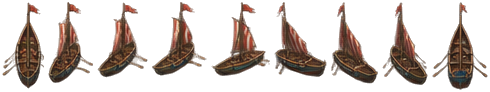
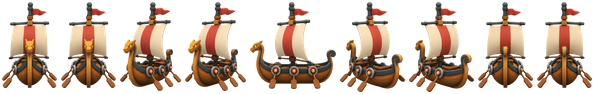
Toy-style Sloop and Longboat from 5-view sets; tools/cut-ship-views.py; fix creature-art test for flying keys
Claude-Session: https://claude.ai/code/session_01FCp3PwgtusK1H34abZ7FvQ

diff --git a/tools/cut-ship-views.py b/tools/cut-ship-views.py
@@ -1,0 +1,57 @@
+"""Cut a 5-view ship image (bow, bow-quarter, side with bow LEFT,
+stern-quarter, stern; transparent background) into a 9-frame atlas for
+engine/shipSprites.mjs, and patch that hull's frame table in place.
+
+  python3 tools/cut-ship-views.py <hull> <image.png>
+"""
+import sys, re, json
+from PIL import Image
+import numpy as np
+from scipy import ndimage
+
+hull, path = sys.argv[1], sys.argv[2]
+src = np.array(Image.open(path).convert('RGBA'))
+r, g, b, A = [src[..., i].astype(int) for i in range(4)]
+# Keying fringe: saturated red/yellow specks outside the solid body.
+core = ndimage.binary_erosion(A > 240, iterations=2)
+fringe = (~core) & (A < 250) & (((r > 170) & (g < 80) & (b < 80)) | ((r > 200) & (g > 190) & (b < 70)))
+src[..., 3] = np.where(fringe | (A < 24), 0, A)
+m = src[..., 3] > 128
+l, k = ndimage.label(ndimage.binary_dilation(m, iterations=8))
+sz = ndimage.sum(m, l, range(1, k + 1))
+objs = sorted([i + 1 for i in range(k) if sz[i] > 0.2 * sz.max()], key=lambda i: ndimage.find_objects(l)[i - 1][1].start)
+assert len(objs) == 5, f'expected 5 views, found {len(objs)}'
+sl = ndimage.find_objects(l)
+views = []
+for i in objs:
+    ys, xs = sl[i - 1]
+    a = src[ys, xs].copy()
+    al = np.where(l[ys, xs] == i, a[..., 3], 0)
+    kk, kn = ndimage.label(al > 0)
+    if kn > 1:
+        s2 = ndimage.sum(al > 0, kk, range(1, kn + 1))
+        al[~np.isin(kk, [j + 1 for j in range(kn) if s2[j] >= 0.02 * s2.max()])] = 0
+    a[..., 3] = al
+    yy, xx = np.nonzero(al > 20)
+    views.append(a[yy.min():yy.max() + 1, xx.min():xx.max() + 1])
+S = 90 / max(v.shape[0] for v in views)
+small = [np.array(Image.fromarray(v).resize((max(1, round(v.shape[1] * S)), max(1, round(v.shape[0] * S))), Image.LANCZOS)) for v in views]
+order = [0, 0, 1, 1, 2, 3, 3, 4, 4]  # 9 headings S -> W -> N, 22.5 deg apart
+pad = 2
+frames = [small[i] for i in order]
+W = sum(f.shape[1] + pad * 2 for f in frames); H = max(f.shape[0] for f in frames) + pad * 2
+atlas = np.zeros((H, W, 4), np.uint8); x = 0; fm = []
+for f in frames:
+    h, w = f.shape[:2]
+    atlas[pad:pad + h, x + pad:x + pad + w] = f
+    al = f[..., 3] > 80; low = int(h * 0.6); yy, xx = np.nonzero(al[low:])
+    fm.append([x + pad, pad, w, h, round(float(xx.mean()), 1), round(float(yy.mean() + low), 1)])
+    x += w + pad * 2
+Image.fromarray(atlas).save(f'assets/ships/{hull}.png', optimize=True)
+p = 'src/engine/shipSprites.mjs'; s = open(p).read()
+body = f"  {hull}: [\n" + "".join(f"    [{', '.join(str(v) for v in f)}],\n" for f in fm) + "  ],"
+pat = rf"  {hull}: \[\n(?:    \[.*\],\n)+  \],"
+assert re.search(pat, s), 'frame table not found'
+s2 = re.sub(pat, body, s, count=1)
+open(p, 'w').write(s2)
+print(hull, json.dumps(fm))

diff --git a/CLAUDE.md b/CLAUDE.md
@@ -2698,6 +2698,21 @@ quests/NPCs/dialogue, cosmetics, audio beyond hooks, any backend.
     flyer phase when present (none yet).
   - `tests/devTuning.test.mjs`. 472/472.
 
+- **Phase:** toy-style ships, first two hulls (owner's 5-view sets).
+- **Just shipped:** Sloop and Longboat atlases rebuilt from the owner's
+  5-view images (bow, bow-quarter, side with bow left, stern-quarter,
+  stern). Each view covers two of the 9 headings, mirrored for the east
+  half. `tools/cut-ship-views.py <hull> <image>` does the whole job:
+  strips the red/yellow keying fringe, finds the 5 views, scales to 90px
+  tall, writes `assets/ships/<hull>.png` and patches that hull's frame
+  table in `shipSprites.mjs`. Enemy looks built on these hulls (horde
+  longboats, cutters, drowned skiffs, galleys) pick up the new art
+  through the recolour. Fixed a creature-art test that rejected
+  `<id>_flying` keys (the previous commit went out with it failing).
+  472/472.
+- **Next up:** the other five hulls the same way (Skiff, Catamaran,
+  Junk, Ironclad Steamer, Galleon) once the owner has their 5-view sets.
+
 ## Decisions log
 
 *(Entries from the archived card-game project's own decisions log live in
